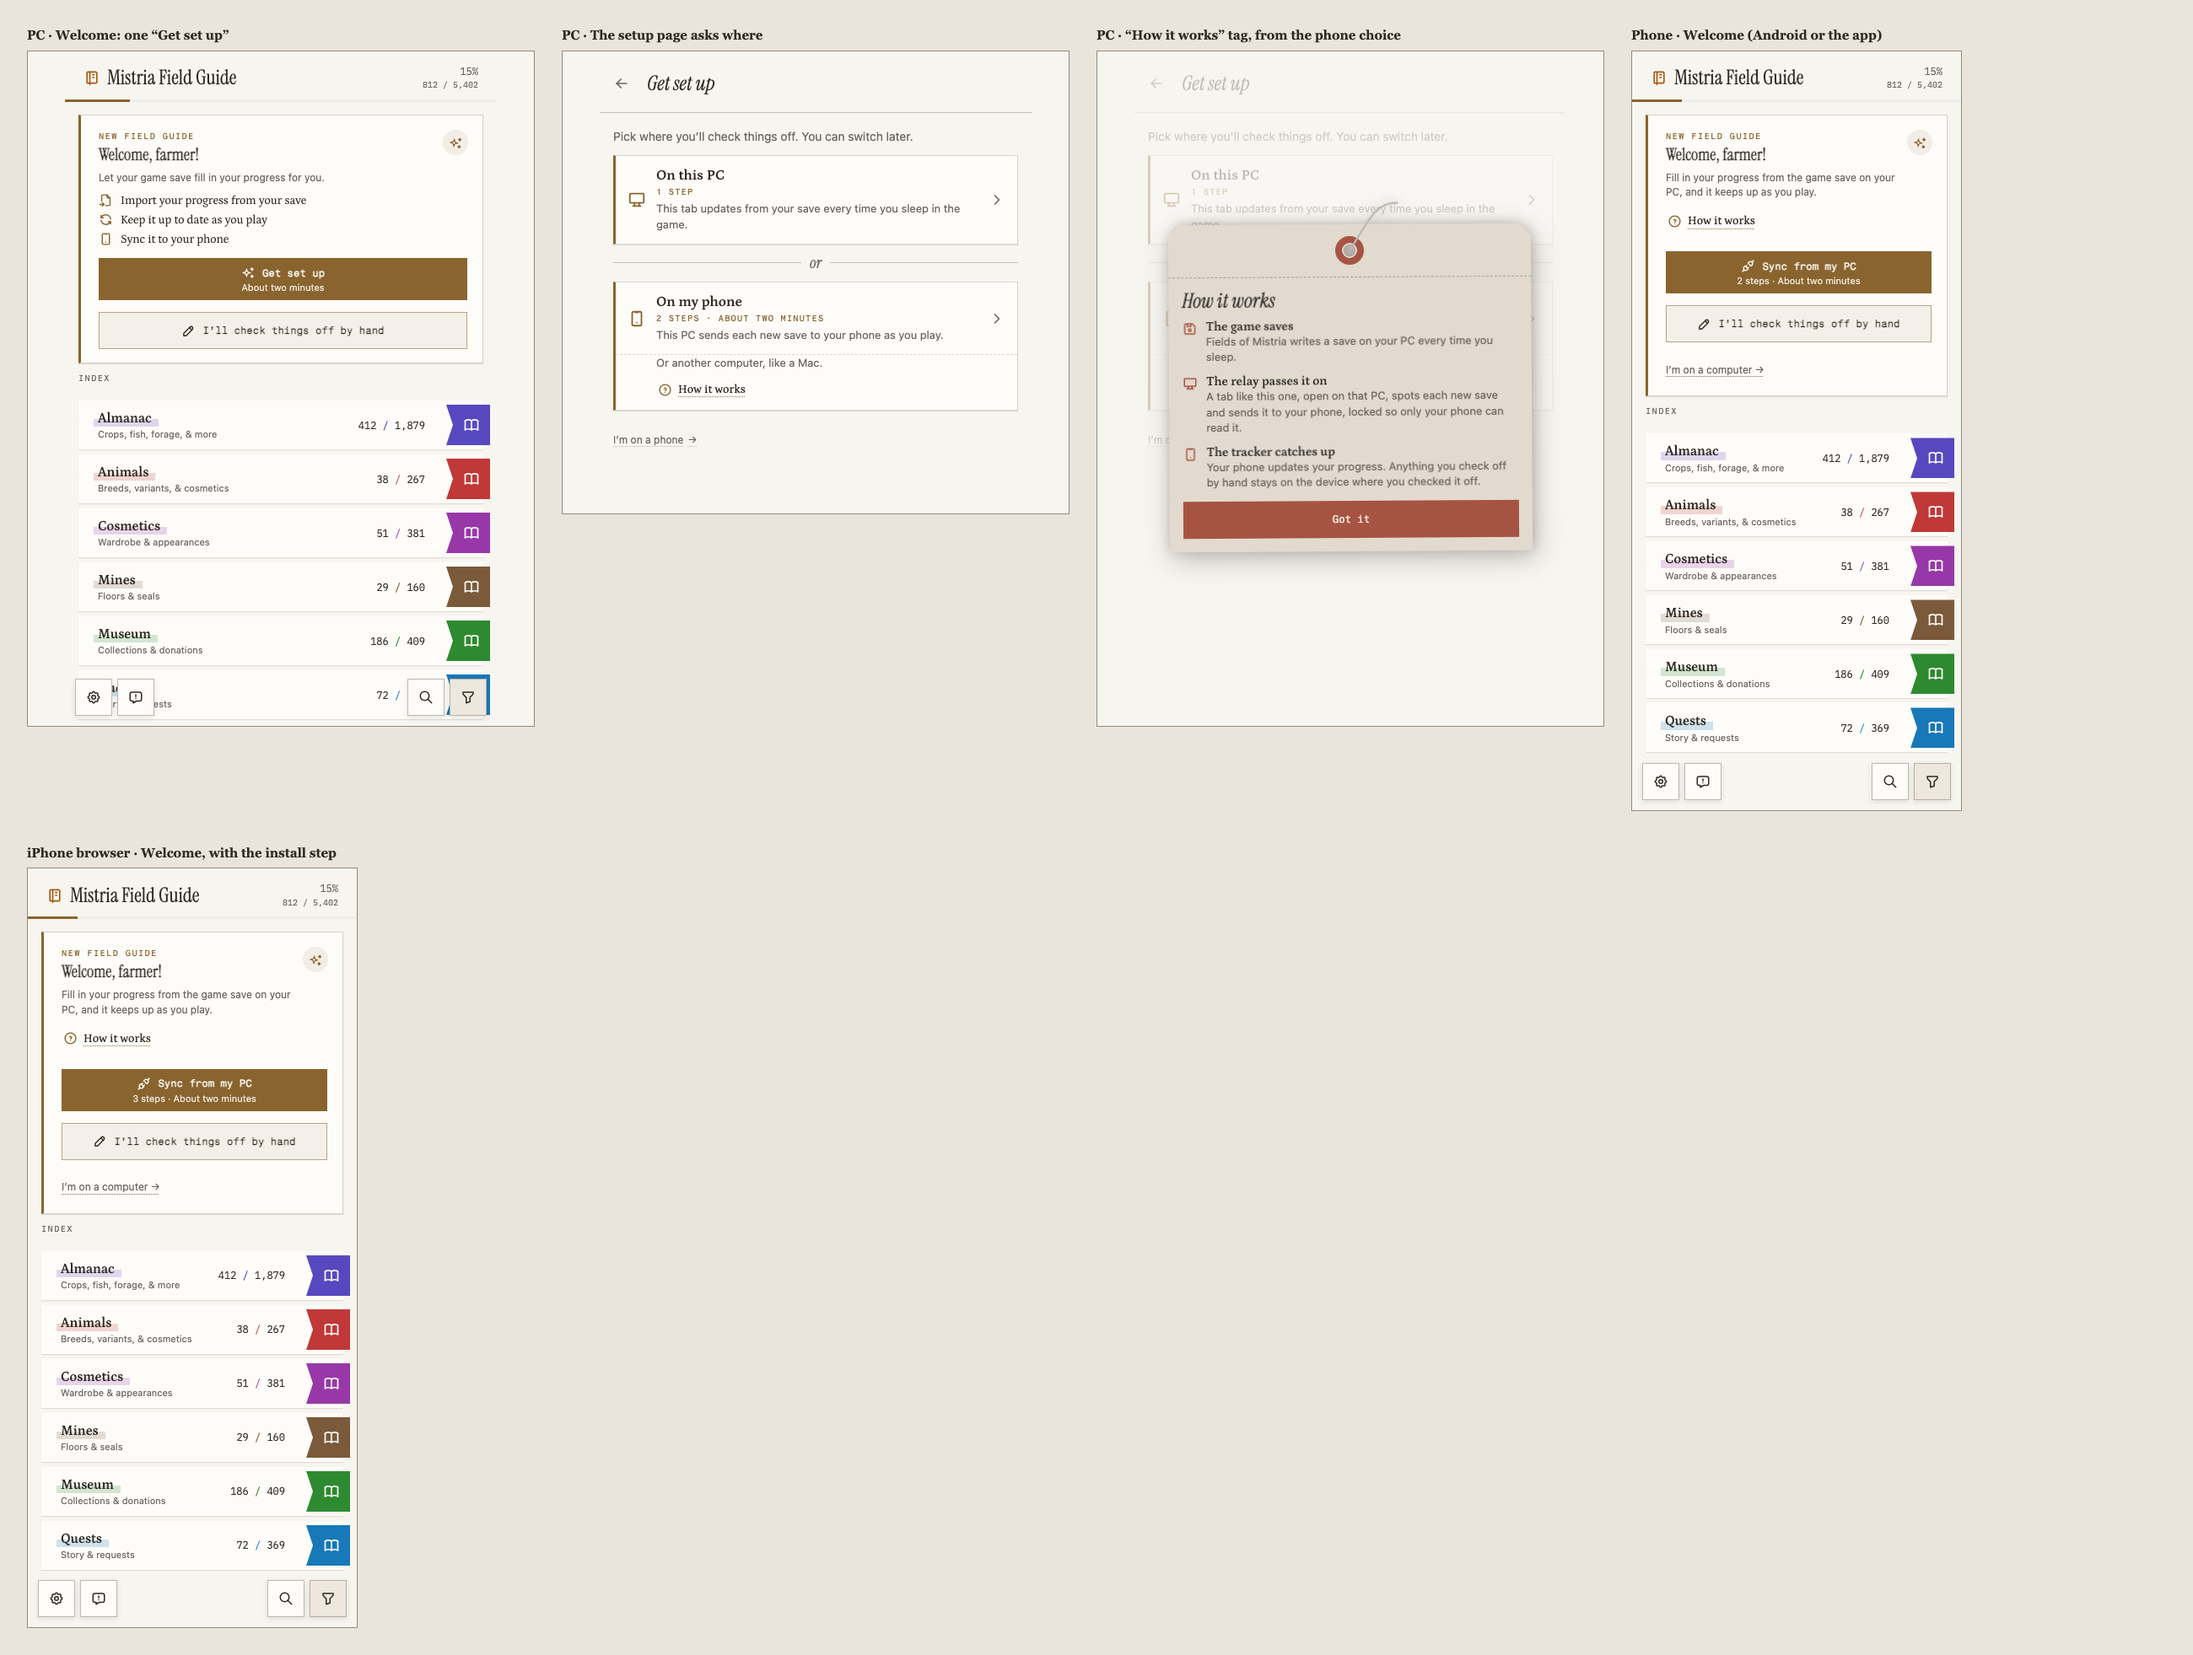
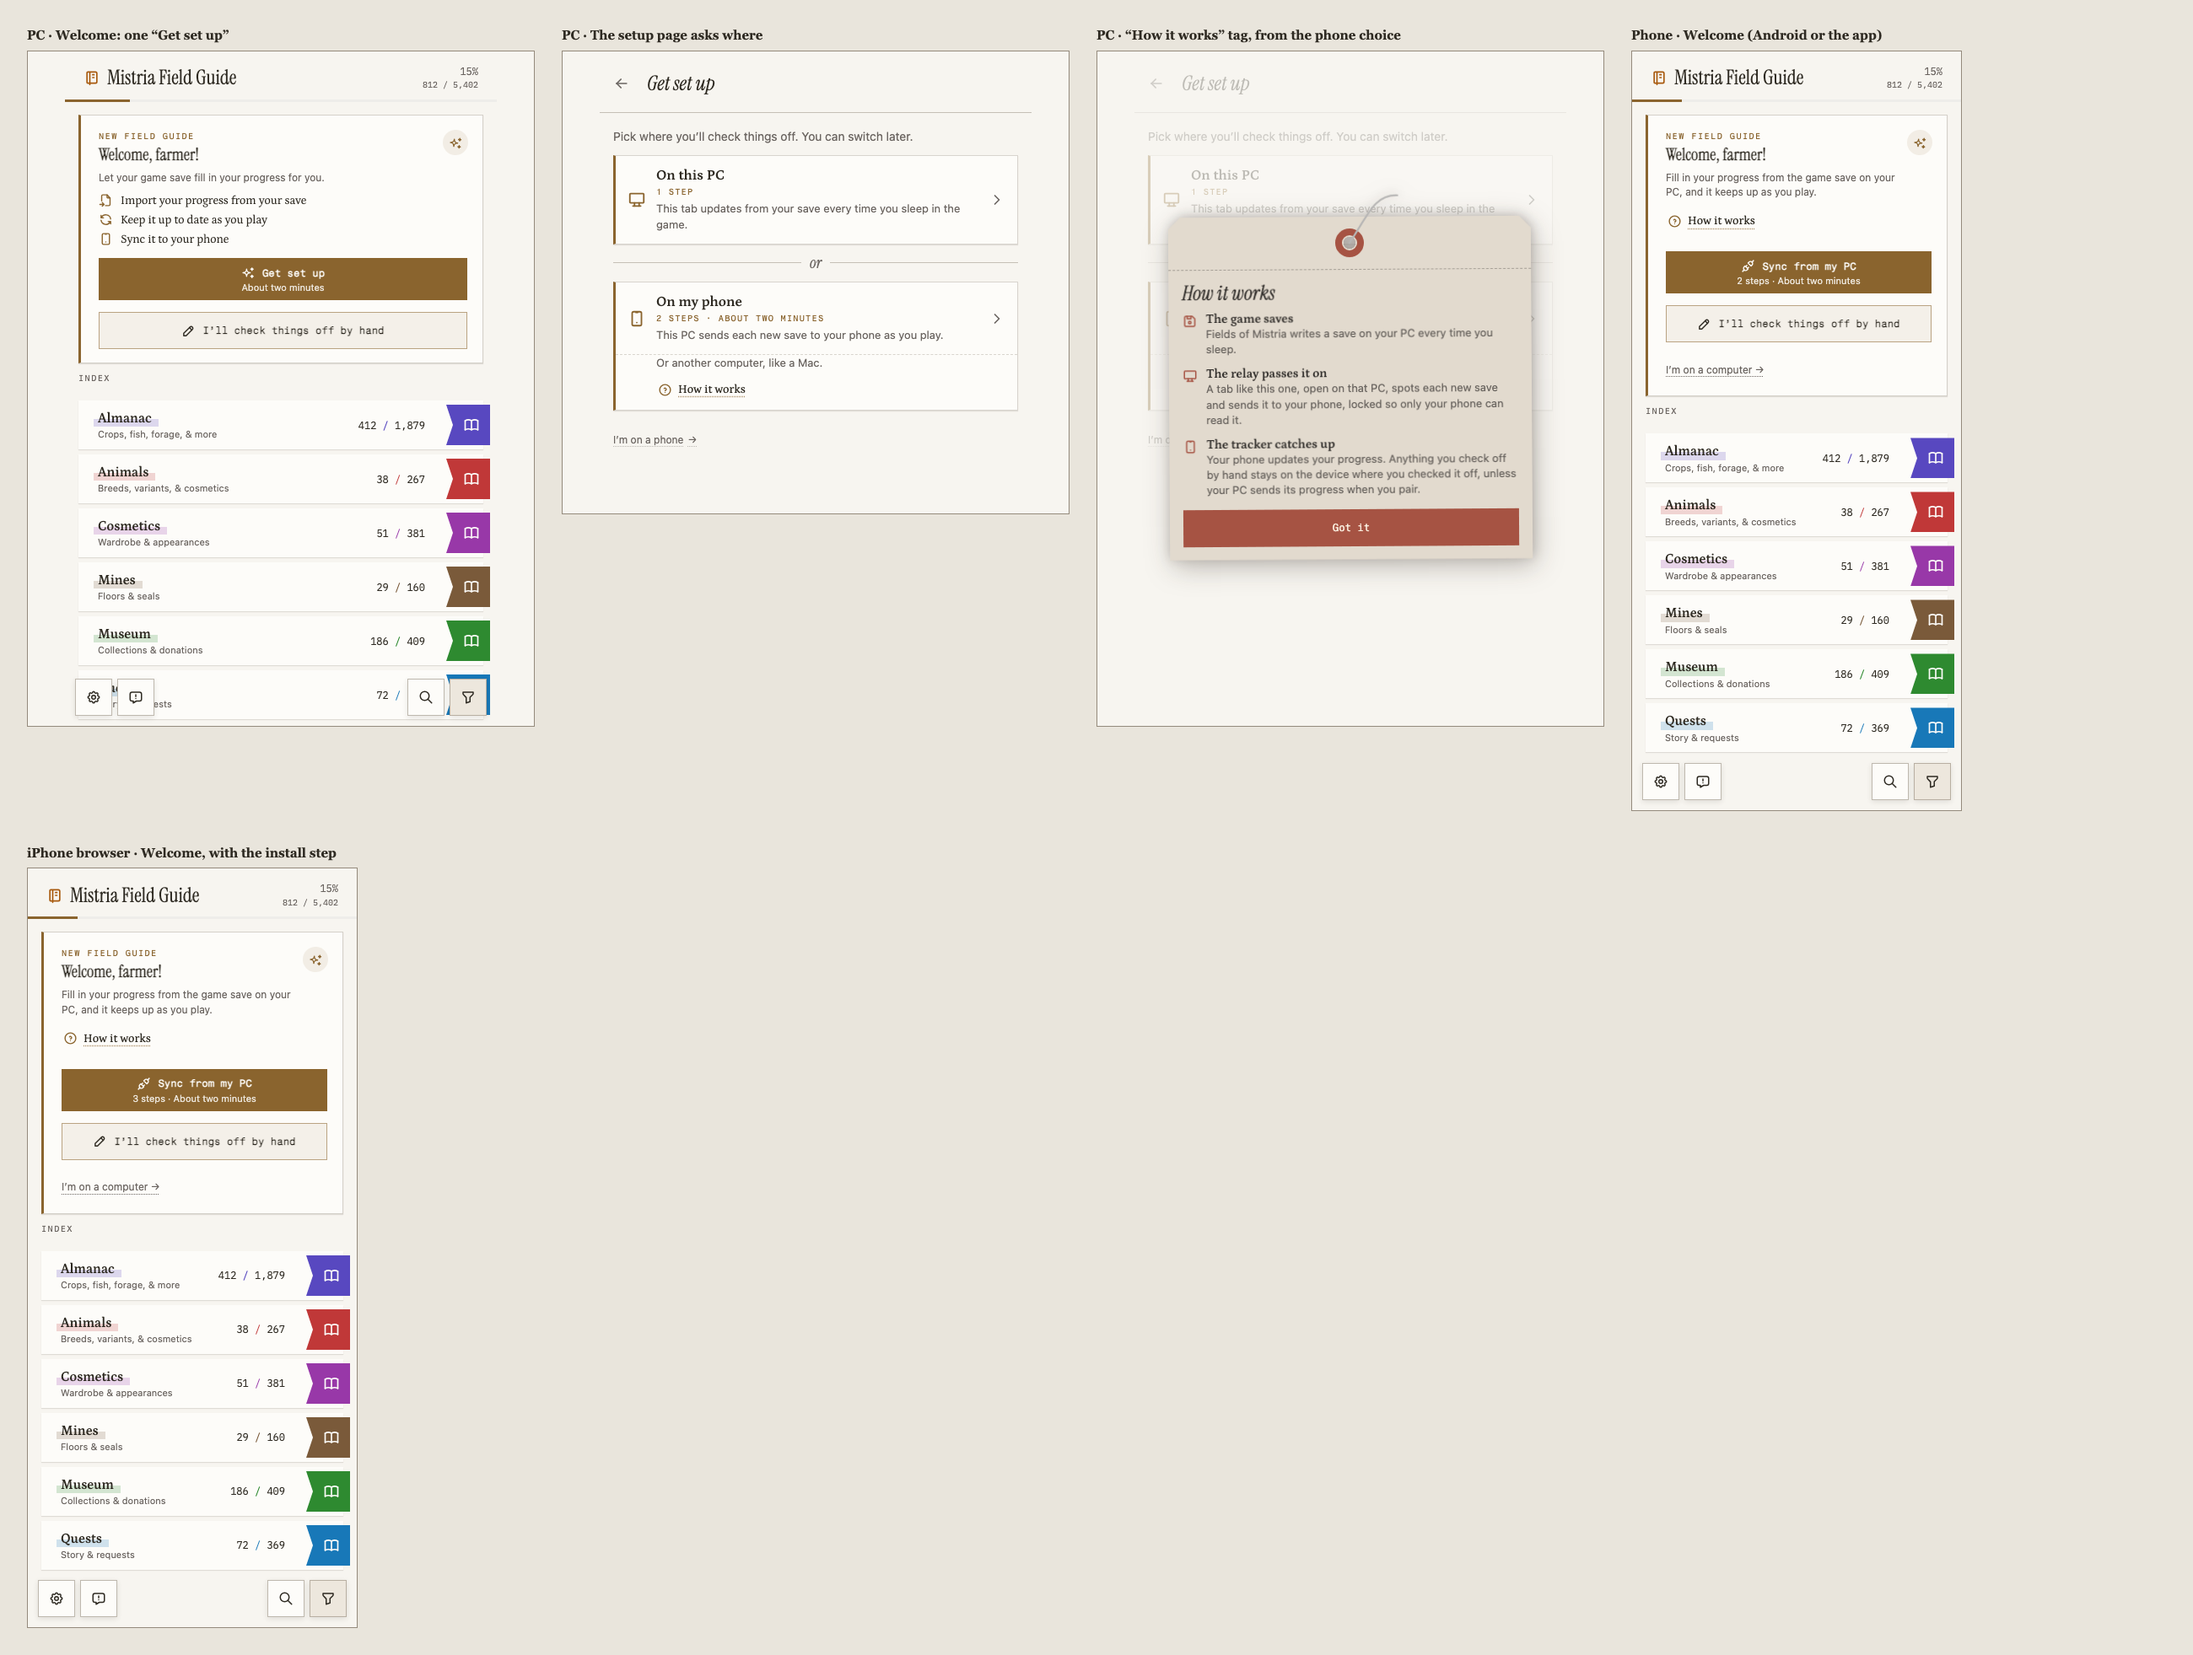
Match the boards to the round-three copy & redraw the lapsed PC
Decisions: None.

Changed region(s): [[0.5296, 0.1554, 0.6854, 0.3418], [0.5919, 0.1243, 0.6231, 0.1554]]

diff --git a/docs/sync-setup.md b/docs/sync-setup.md
@@ -295,7 +295,7 @@ Every path stays reachable from Data, which links to the same setup page. Changi
 - **Self-updating tracker → tracker.** “Stop updating” in Data forgets the save & keeps progress as
   it is.
 - **Relay → tracker, by lapse.** A pairing that lapses ends the relay role, as unpairing does; the
-  takeover offers “Pair again” & “Fill in from your latest save”.
+  PC’s Home note offers “Pair again” & “Fill in from your latest save”.
 - **An interrupted switch to relay** keeps the page read-only, saying “Finishing setup…”, until sync
   gives a definite answer; another tab’s check-off that lands after the switch says “That change
   didn’t save: this PC is the relay now.”.
@@ -481,7 +481,7 @@ Write like a chill, non-judgmental friend helping with a tech setup.
 
 ## Screens
 
-One sheet per canvas row, rendered from canvas version 51 & kept in the
+One sheet per canvas row, rendered from canvas version 53 & kept in the
 [design package](design/sync-setup/README.md). PC boards are cropped to the 512 px column.
 
 ### First look

diff --git a/docs/sync.md b/docs/sync.md
@@ -405,7 +405,7 @@ learn of a change through a `BroadcastChannel` & re-read it on focus.
   first, & on a self-updating tracker to stop updating first, so a PC that watches a save never
   becomes the receiving side too.
 - **A lapse ends the relay role.** When the relay reports the pairing lapsed, the PC records the
-  tracker role, as for “Unpair”, & its takeover offers “Pair again” & “Fill in from your latest
+  tracker role, as for “Unpair”, & its Home note offers “Pair again” & “Fill in from your latest
   save”.
 
 Tests cover a transition interrupted before acceptance, one interrupted between the relay’s

diff --git a/docs/design/sync-setup/README.md b/docs/design/sync-setup/README.md
@@ -7,7 +7,7 @@ docs, decision records, & review rounds. The design itself lives in
 protocol); this folder holds the evidence behind them.
 
 Status: in review on PR #251. Three adversarial review rounds are resolved; whether to run a fourth
-is the maintainer’s call. The sheets match canvas version 51.
+is the maintainer’s call. The sheets match canvas version 53.
 
 ## What’s here
 
